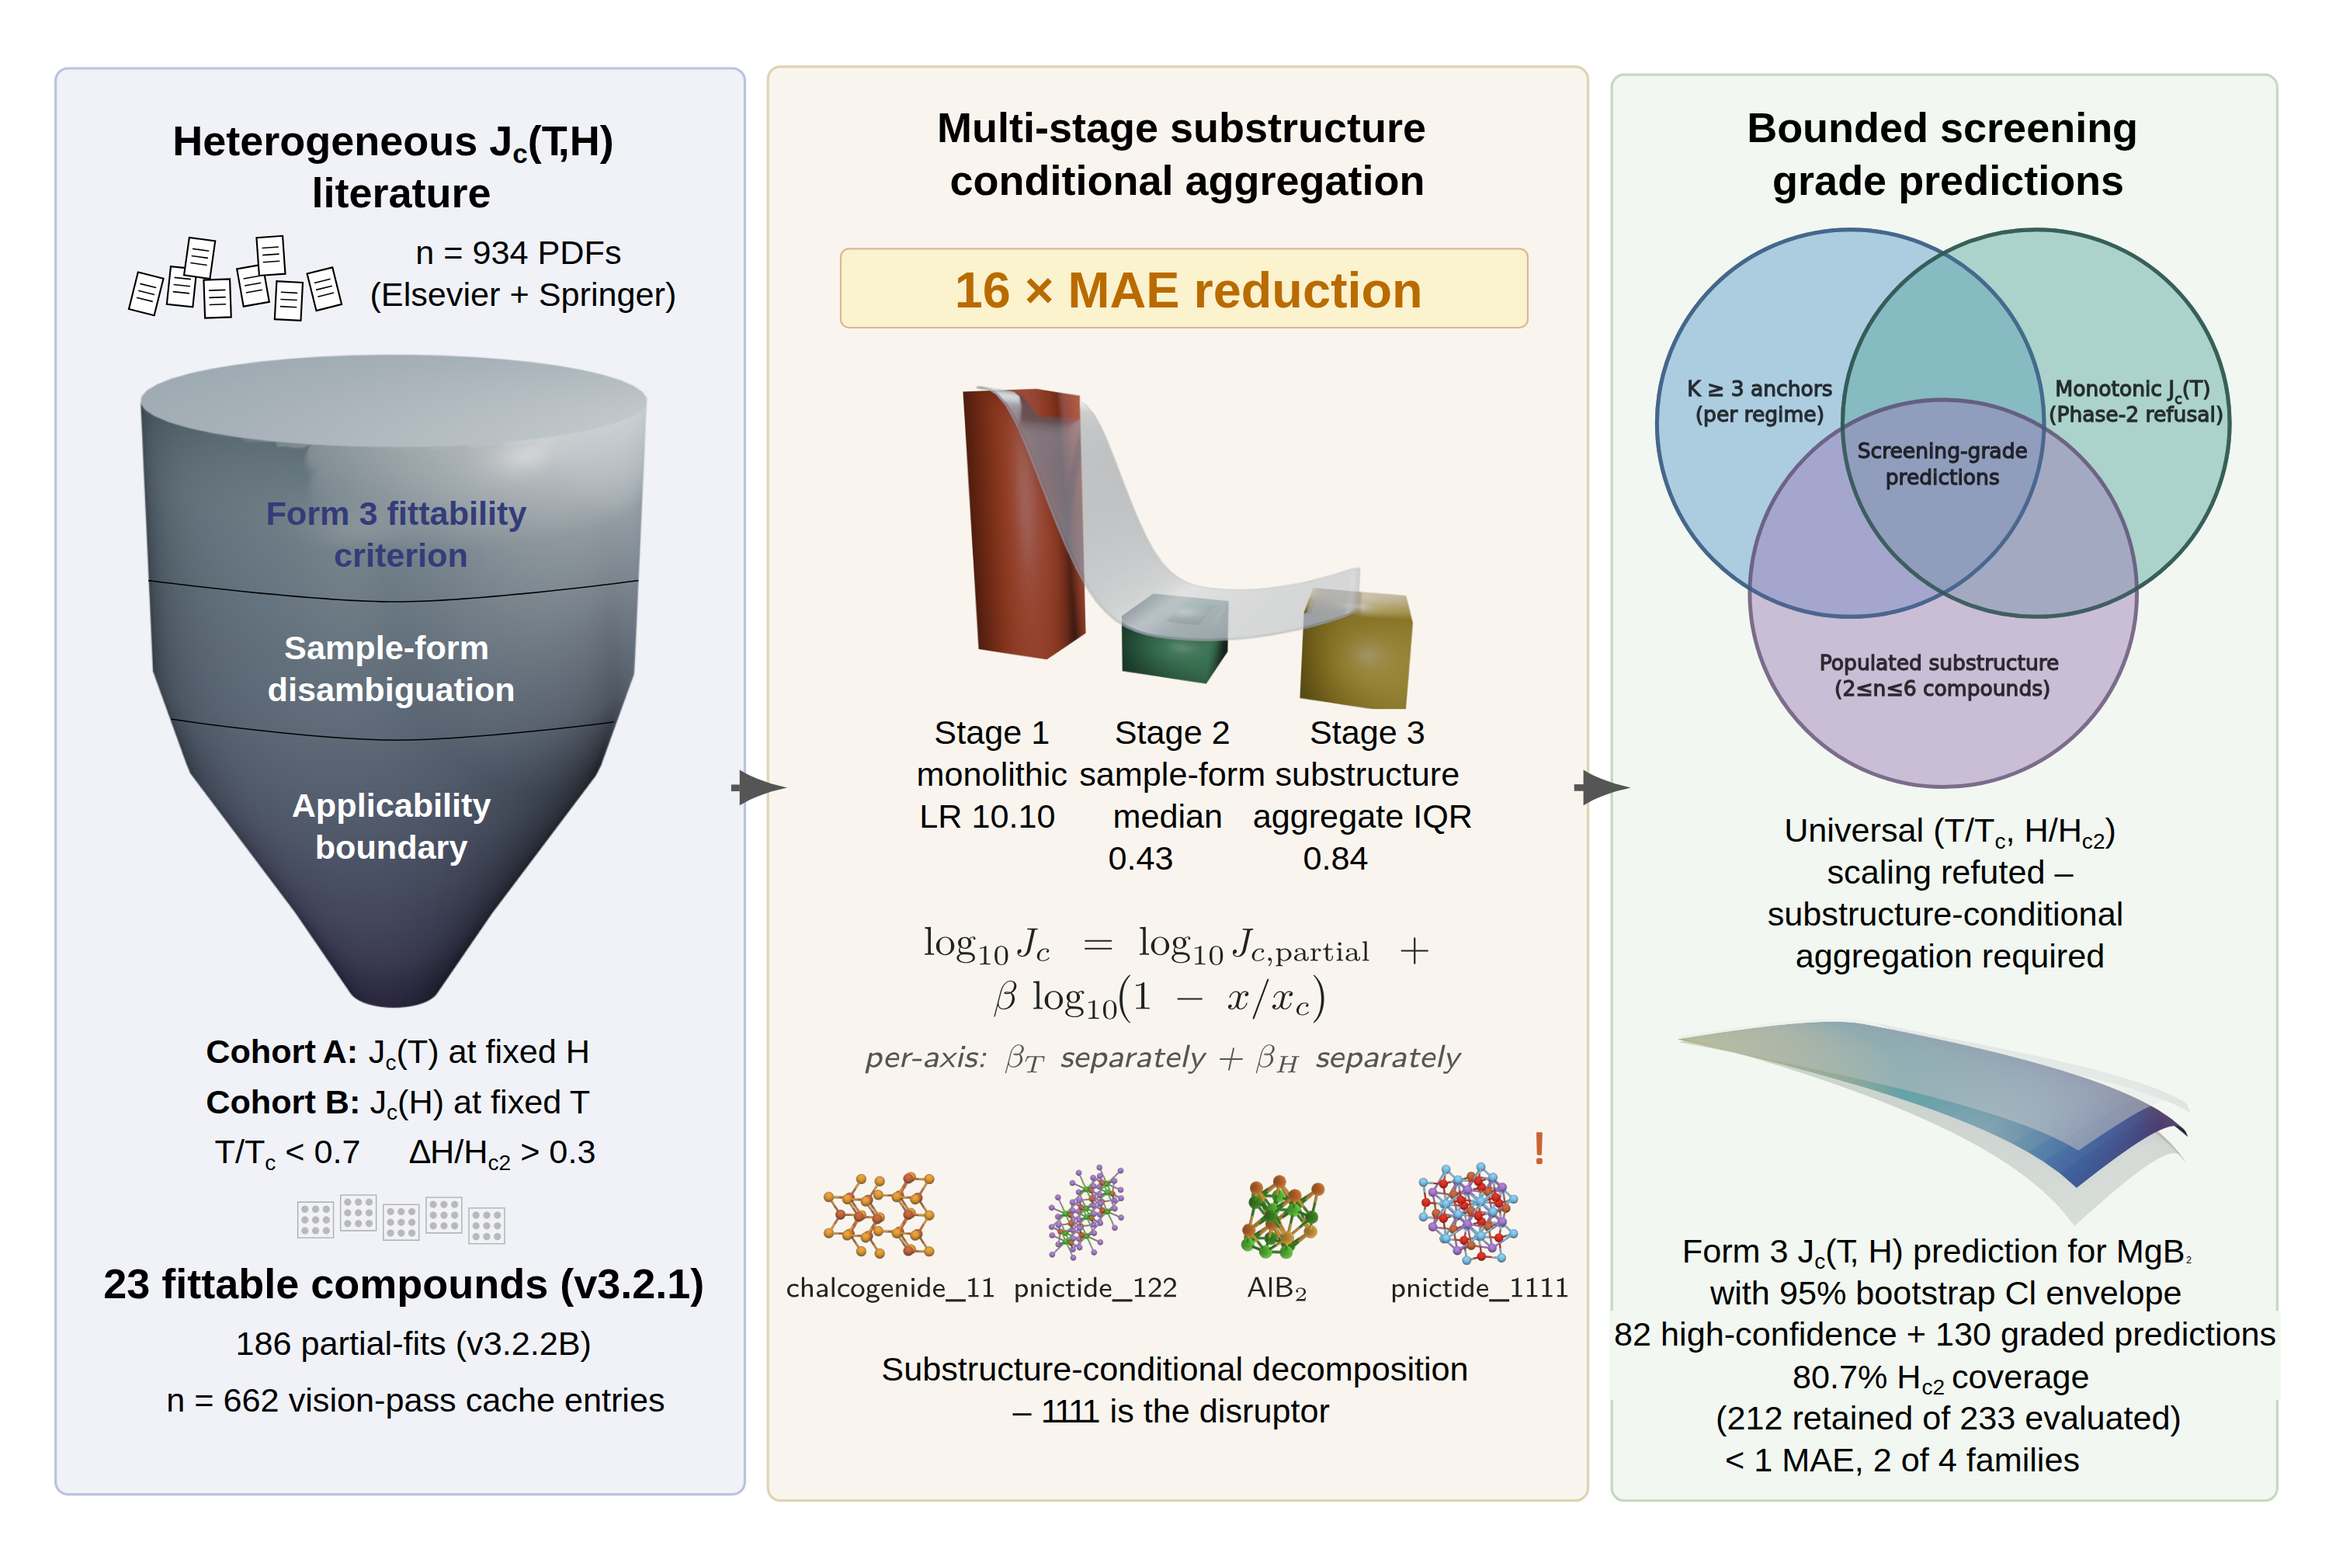
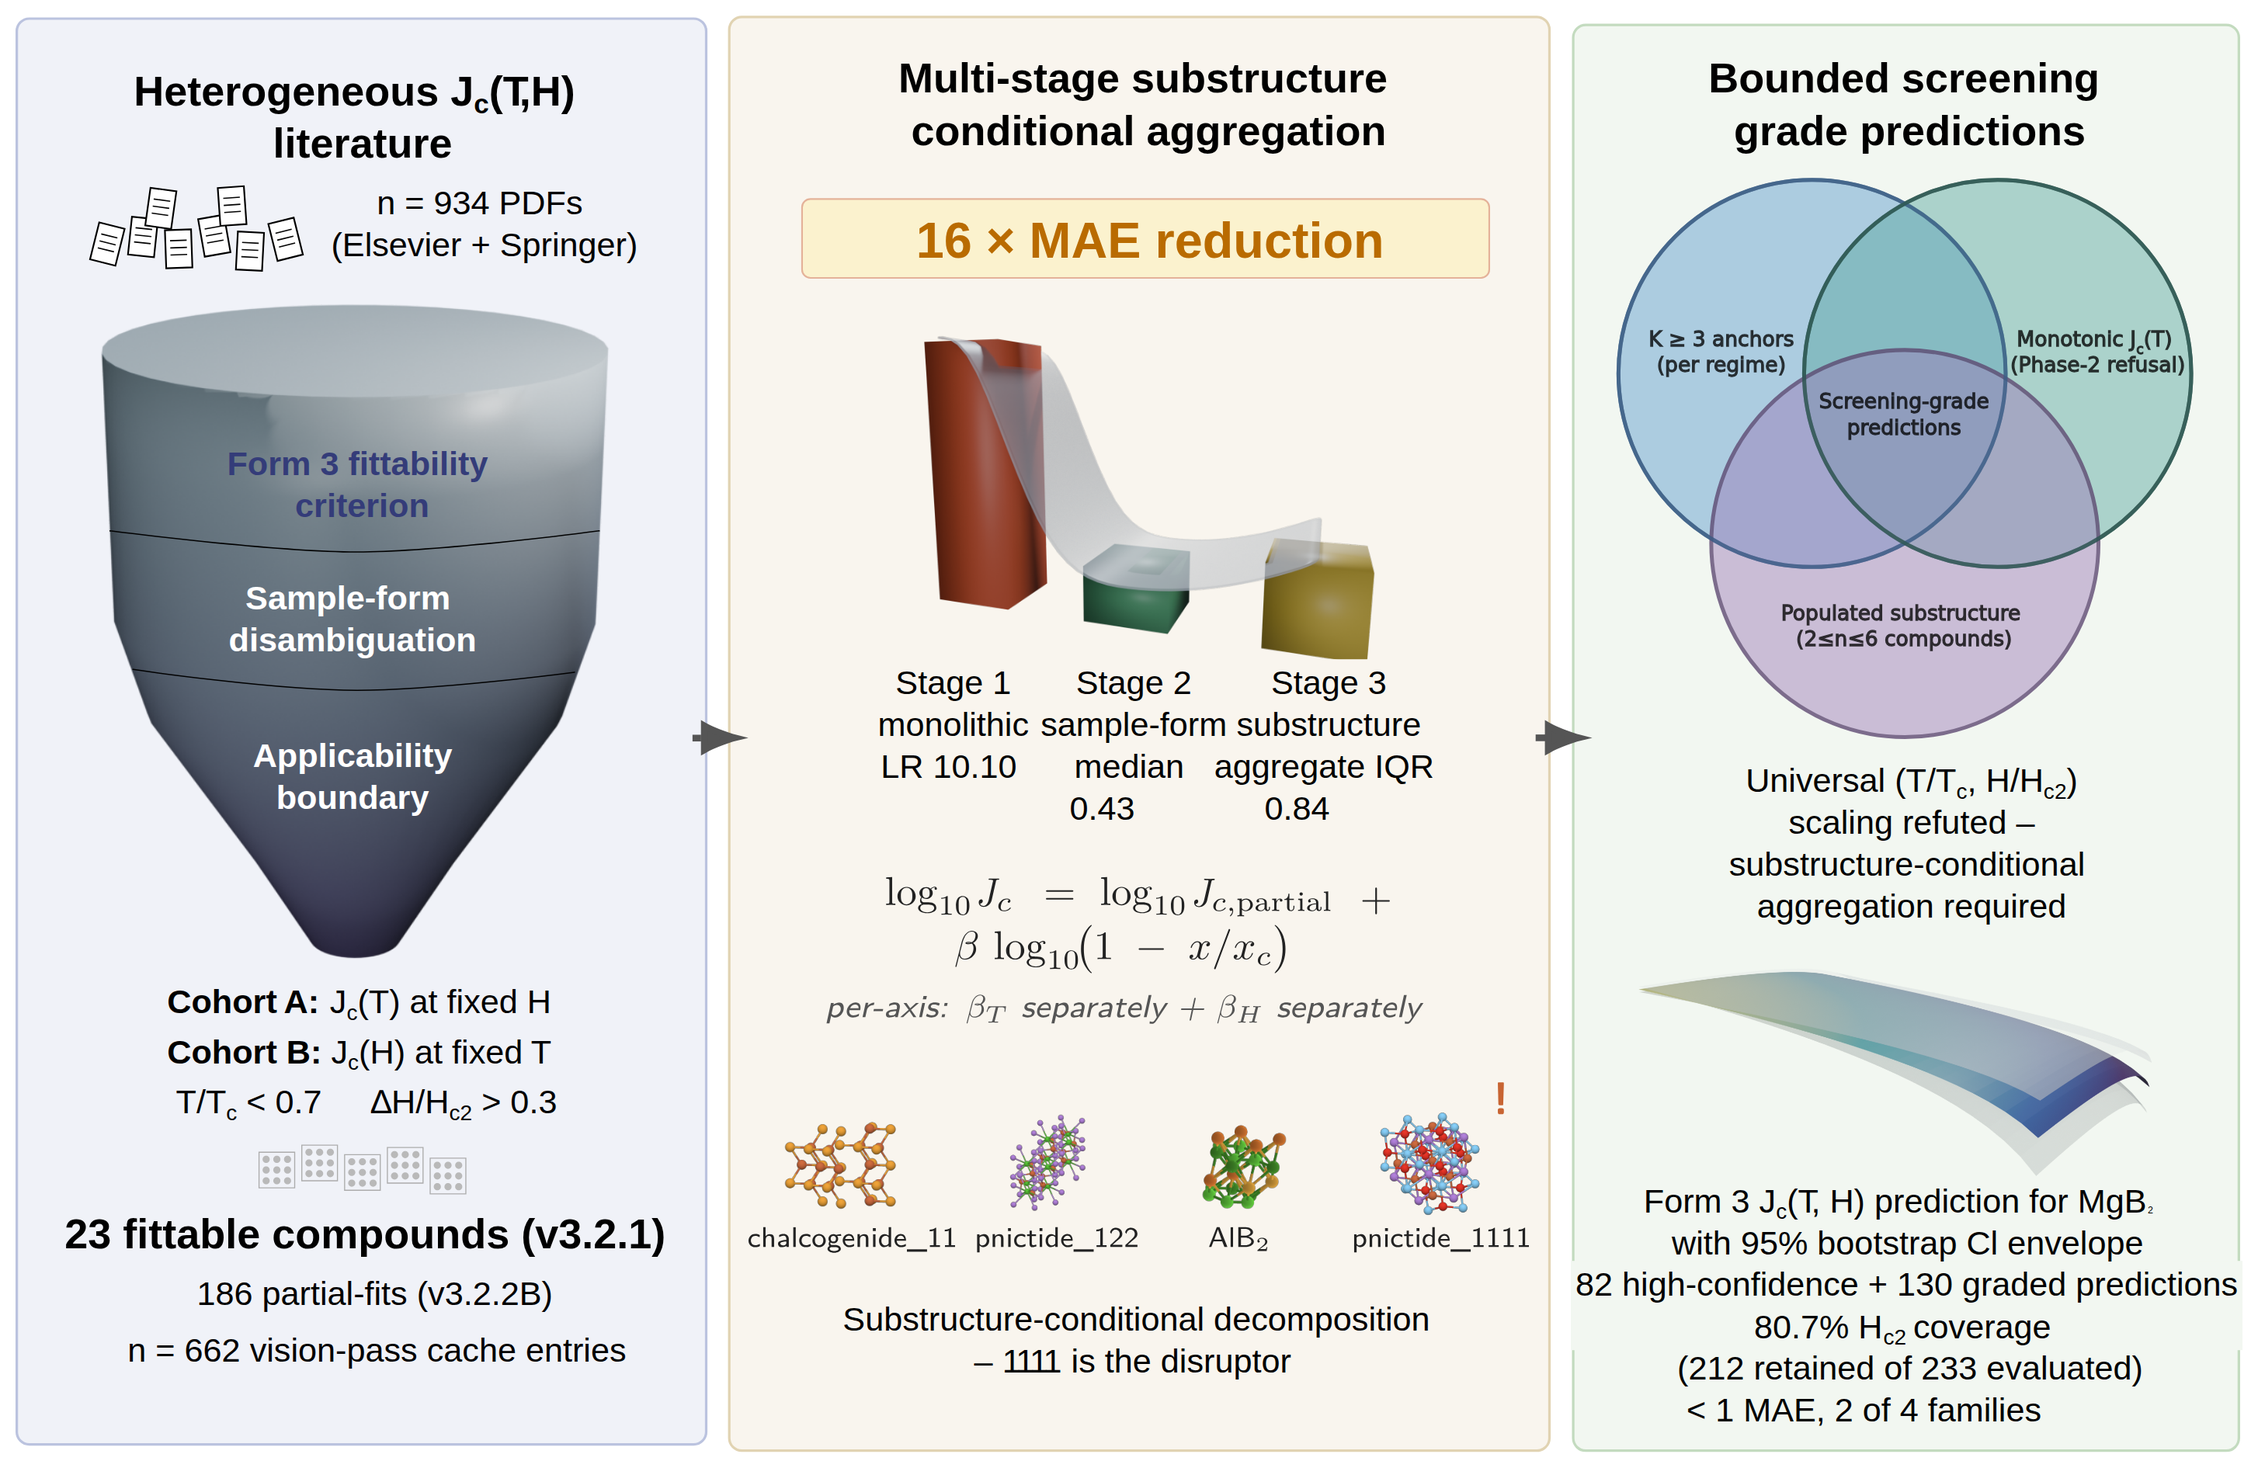
Centre the artwork inside its own canvas
Figure 2's background carried 456 px of empty space on the right against 40 on
the left, so the drawing sat off-centre within its own frame and read as
off-centre on the page no matter how the paragraph was aligned. Both artwork
PNGs are trimmed to their content and re-padded evenly.

The manuscript's five figure paragraphs were already centred; what was wrong
was inside the images. Every display extent is now computed from the embedded
pixel dimensions, which also removed a 0.4% horizontal stretch on Figure 3 left
over from regenerating it at a slightly different width than the frame assumed.

Claude-Session: https://claude.ai/code/session_01PhhbXYwhG93hipBp6Dk7Hu

diff --git a/figures/artwork/README.md b/figures/artwork/README.md
@@ -2,7 +2,15 @@
 
 These two are not produced by a script in `analysis/`. They are Inkscape
 drawings, and the `.svg` here is the source of record; the `.png` beside it is
-what the manuscript embeds, rendered at 3000 px wide.
+what the manuscript embeds, rendered at 3000 px wide and then cropped to its
+own content with a uniform margin.
+
+That crop matters for Figure 2. Its canvas carried 456 px of empty background
+on the right against 40 px on the left, so the drawing sat off-centre inside
+its own frame and looked off-centre on the page however the paragraph was
+aligned. Both PNGs are now trimmed to their content and re-padded evenly, and
+every figure's display extent in the manuscript is computed from the embedded
+pixel dimensions so nothing is stretched.
 
 `analysis/manuscript_figure_1.py` and `manuscript_figure_2.py` produce a
 different pair of figures in a plain matplotlib style. Those were carried in an
